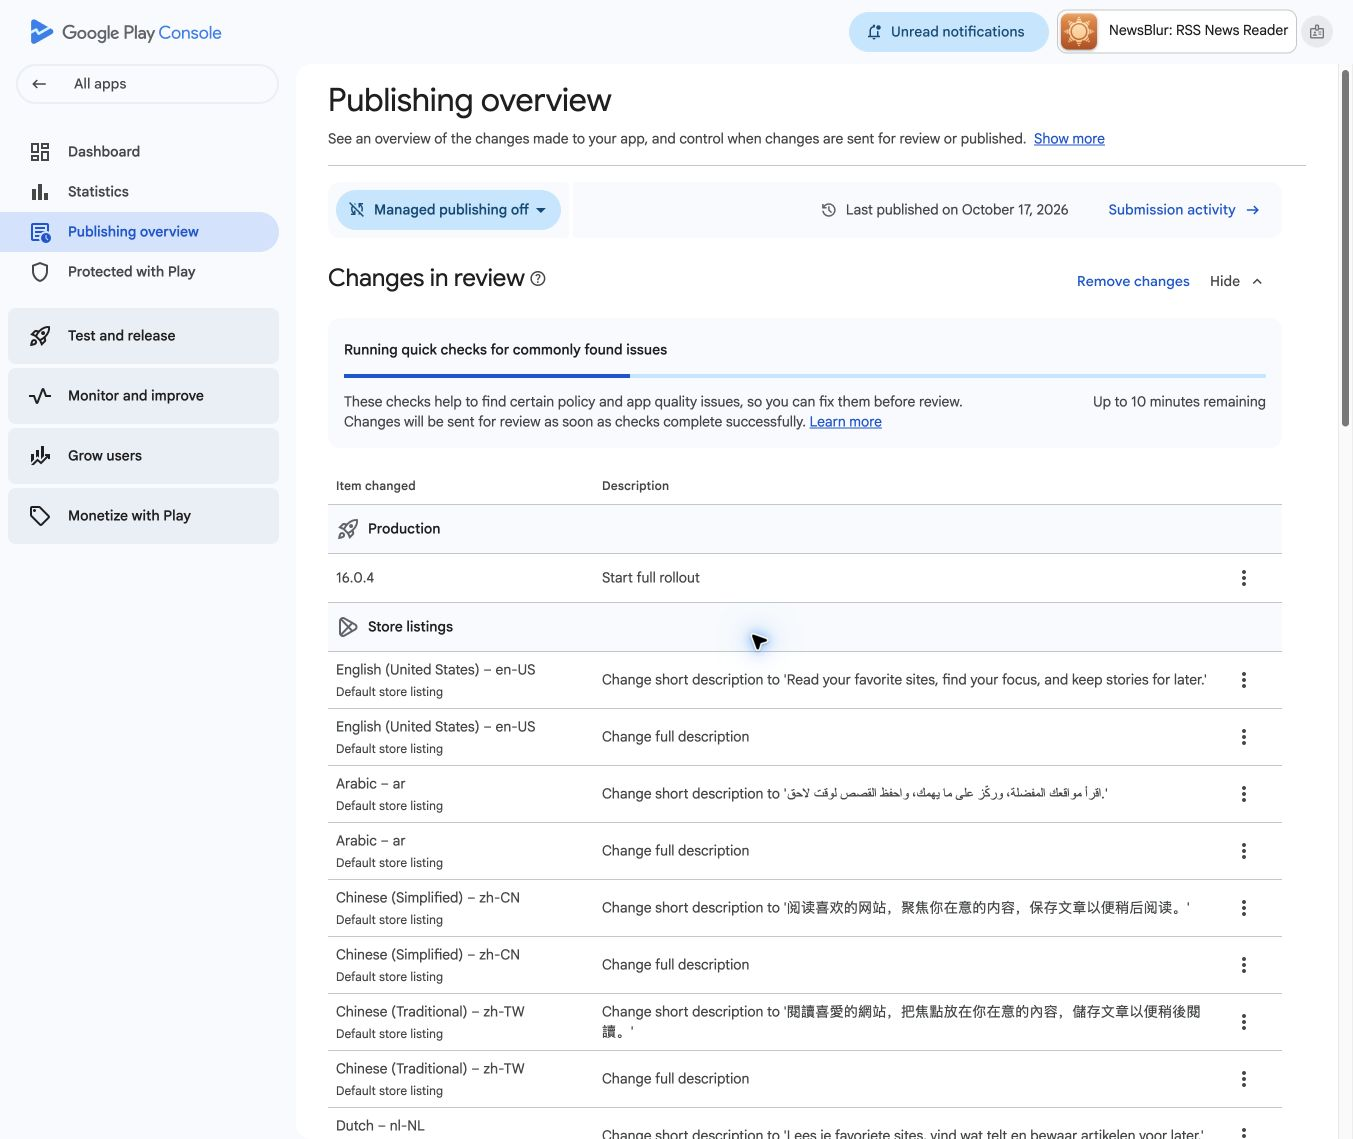
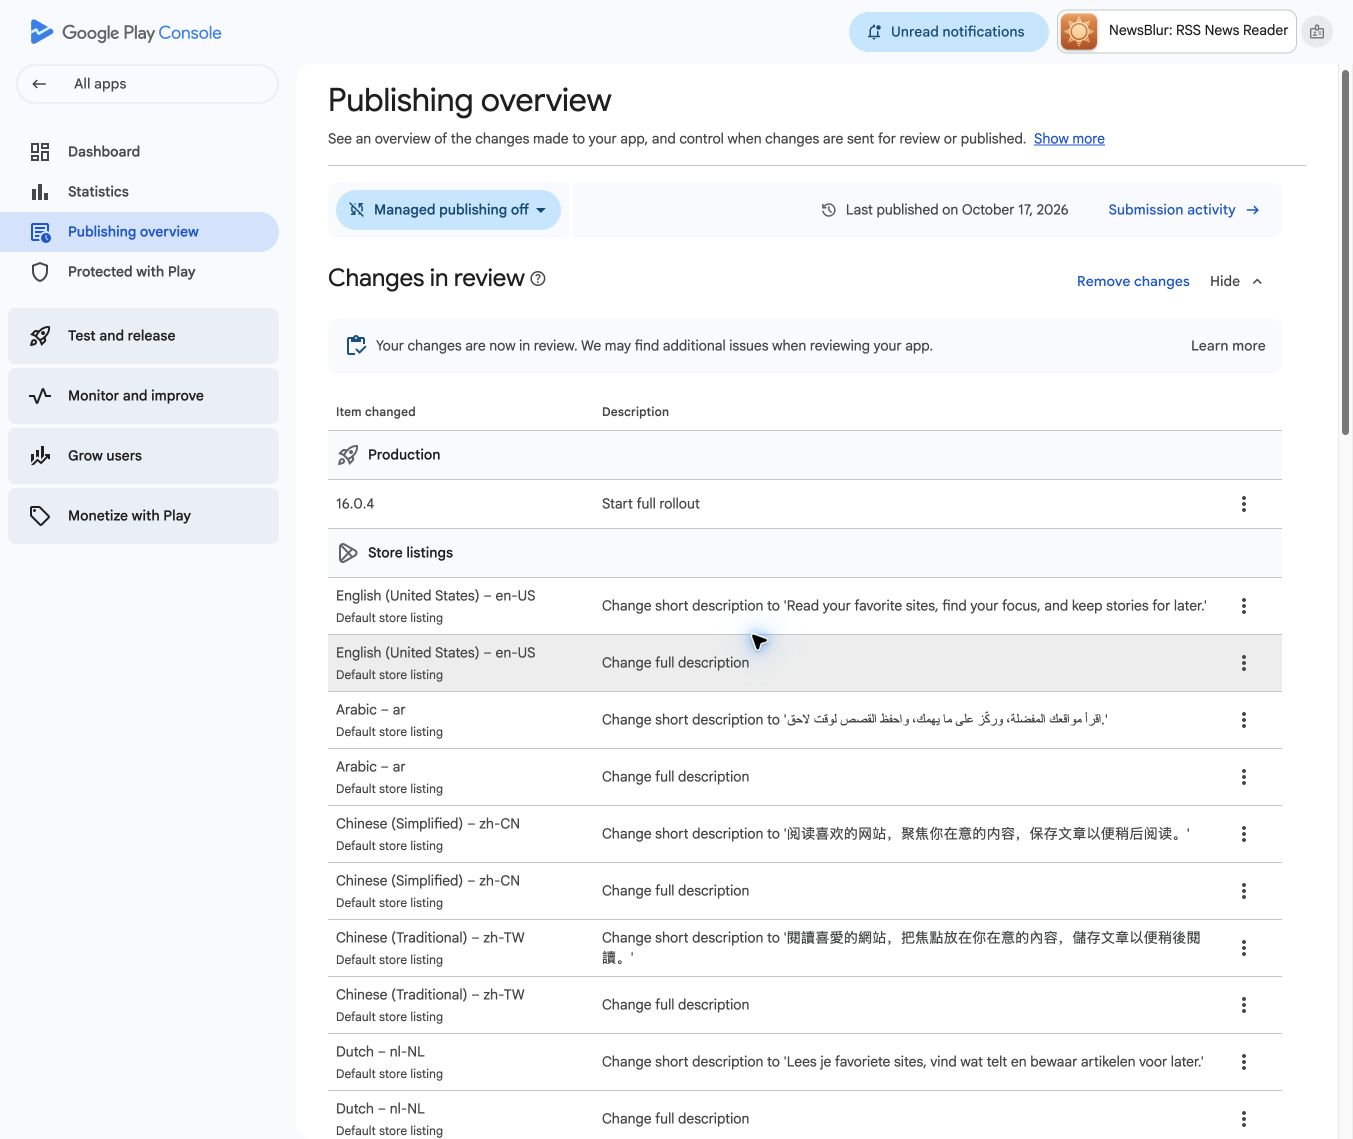
Record F-Droid 16.0.4 submission and completed Play quick checks

Changed region(s): [[0.4346, 0.4917, 0.9002, 1.0], [0.2483, 0.2766, 0.9313, 1.0], [0.9933, 0.3687, 1.0, 0.3995]]

diff --git a/clients/android/releases/16.0.4/README.md b/clients/android/releases/16.0.4/README.md
@@ -10,7 +10,7 @@ Subsequent store-copy and export-tool commits do not change the Android source.
 ## Google Play
 
 Submitted on October 17, 2026 for a full production rollout. Publishing overview
-shows **Changes in review**, with automated quick checks still running and managed
+shows **Changes in review** after automated quick checks completed, with managed
 publishing off. Approval and public availability are not yet verified. The
 submission contains release 16.0.4 and 42 listing text changes across 21 locales;
 there were no unrelated pending changes. The previous public release was 16.0.2
@@ -41,8 +41,9 @@ folder. `proof/build-validation.json` records the source and signing evidence.
 Android Tests, Django Tests, and Android Release and F-Droid all passed on the exact
 release commit. The F-Droid job passed source/dependency scans, unit tests, and the
 unsigned APK build before creating the immutable tag. See `proof/github-checks.json`
-and `fdroid-status.md` for the separate upstream metadata submission and official
-F-Droid publication status. A successful compatibility build is not an official
+and [F-Droid MR !52997](https://gitlab.com/fdroid/fdroiddata/-/merge_requests/52997)
+for the submitted upstream recipe. Maintainer acceptance and official F-Droid
+publication are pending; `fdroid-status.md` records the external status. A successful compatibility build is not an official
 F-Droid package publication.
 
 Canonical translations are under `clients/store/`; native Play notes and validated

diff --git a/clients/android/releases/16.0.4/fdroid-status.md b/clients/android/releases/16.0.4/fdroid-status.md
@@ -25,8 +25,18 @@ and publish its own APK.
 
 ## Submission state
 
-The replacement metadata change is prepared locally for the author's
-`samuelclay/fdroiddata` fork. The existing bot branch cannot be edited with the author's permissions.
-The replacement will explicitly supersede !51902, without closing that request.
-Publication of the metadata request waits for the release workflow to validate
-the exact 16.0.4 source commit and publish its immutable tag.
+The [release workflow](https://github.com/samuelclay/NewsBlur/actions/runs/39076913158)
+passed source scanning, dependency checks, tests, and the unsigned F-Droid APK
+build. It published `Android_16.0.4` at the exact version-bump commit
+`1b32c5b65bdf577402c055d34246691d53e534d9`; the remote tag was independently verified.
+
+[F-Droid merge request !52997](https://gitlab.com/fdroid/fdroiddata/-/merge_requests/52997)
+is open from `samuelclay/fdroiddata:newsblur-16.0.4-fdroid`. Its head is
+`61708c54f43742f5230854bfaf4a16773a143df3`. The live diff changes only
+`metadata/com.newsblur.yml`, and its description explicitly supersedes !51902.
+The bot request remains open. The author's fork master was not changed.
+
+The [merge-request pipeline](https://gitlab.com/samuelclay/fdroiddata/-/pipelines/2959280088)
+is running. Submission is complete; upstream acceptance, the official signed
+F-Droid build, and public availability of 16.0.4 remain pending. The public
+package API still reports 15.0.5 (290) as the suggested version.
